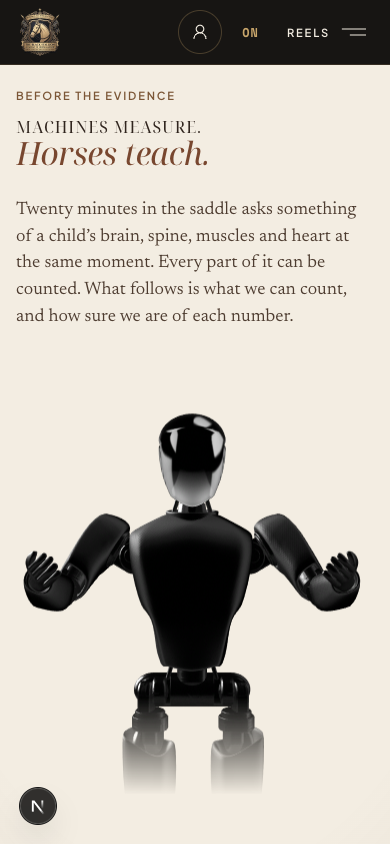
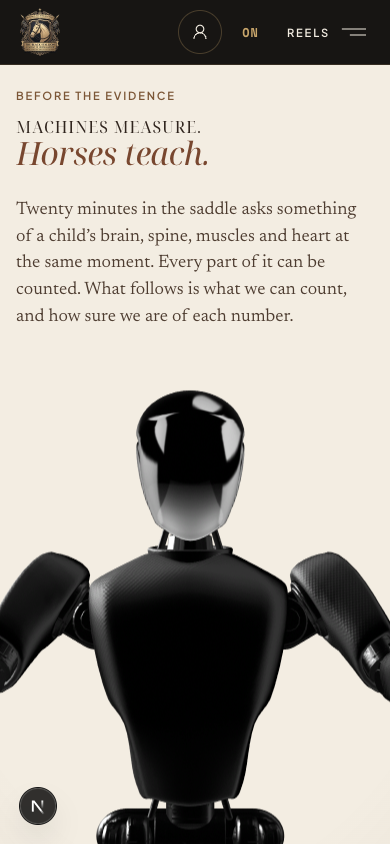
Science robot: larger stage so the robot fills its section

Changed region(s): [[0.0, 0.4621, 1.0, 1.0]]

diff --git a/components/sections/science/RobotScene.tsx b/components/sections/science/RobotScene.tsx
@@ -35,9 +35,9 @@ export function RobotScene() {
         narrow screen the canvas is held at a minimum width and centred (the section clips the overflow) — otherwise the
         robot falls outside the view.
       */}
-      <div className="relative z-0 mt-[clamp(1rem,3vh,2.5rem)] h-[clamp(320px,52vh,520px)] w-full">
+      <div className="relative z-0 -mt-[clamp(0rem,4vh,3rem)] h-[clamp(400px,min(84vh,105vw),900px)] w-full">
         {/* The scene's frame ends mid-leg: the lower edge fades into the page instead of showing a cut. */}
-        <div aria-hidden className="absolute left-1/2 h-full w-[max(100%,44rem)] -translate-x-1/2 [mask-image:linear-gradient(to_bottom,#000_78%,transparent)]">
+        <div aria-hidden className="absolute left-1/2 h-full w-[max(100%,56rem)] -translate-x-1/2 [mask-image:linear-gradient(to_bottom,#000_82%,transparent)]">
           <SplineScene scene="https://prod.spline.design/kZDDjO5HuC9GJUM2/scene.splinecode" className="h-full w-full" />
         </div>
       </div>
